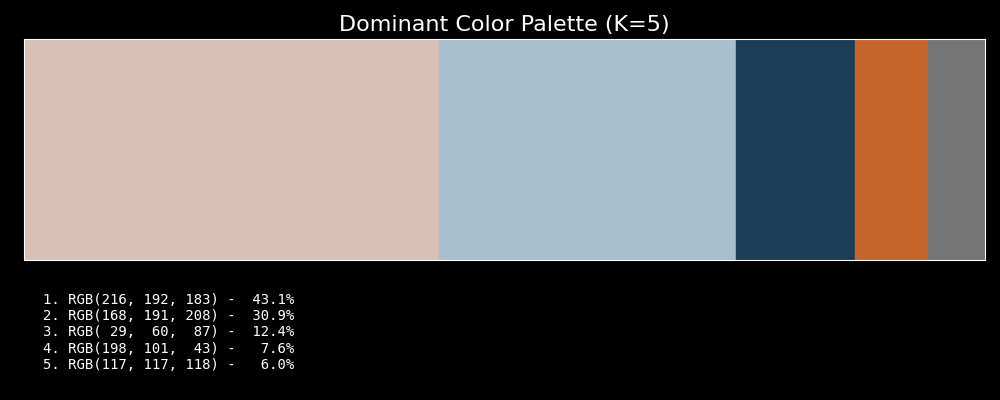
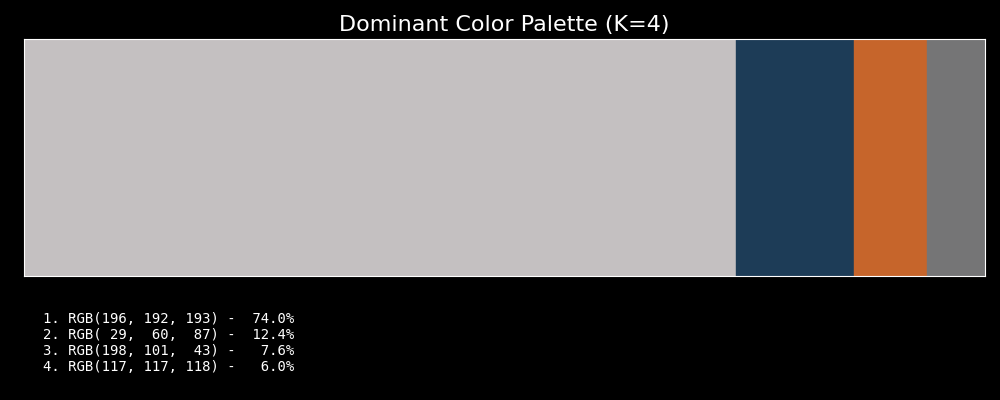
Update README to include Elbow Method info

Changed region(s): [[0.0, 0.03, 0.992, 0.69], [0.031, 0.72, 0.217, 0.93], [0.248, 0.72, 0.31, 0.93]]

diff --git a/README.md b/README.md
@@ -1,6 +1,6 @@
 # 🎨 Pix-Palette: K-Means Dominant Color Extractor
 
-This project demonstrates the core concepts of **Unsupervised Machine Learning**, **Feature Engineering**, and **Data Reduction** by automatically extracting the dominant color palette from any input image, shrinking millions of color values to an interpretable few. The solution uses the **_K-Means Clustering_** algorithm to group millions of individual pixel colors into a specified number of representative colors, which are then displayed in a proportional palette with their RGB values.
+This project demonstrates the core concepts of **Unsupervised Machine Learning**, **Feature Engineering**, and **Data Reduction** by automatically extracting the dominant color palette from any input image, shrinking millions of color values to an interpretable few. The solution uses the **_K-Means Clustering_** algorithm to group millions of individual pixel colors into a specified number of representative colors, which are then displayed in a proportional palette with their RGB values. To ensure the palette is optimal, the project utilizes the Elbow Method to analytically determine the best number of clusters (K) for any given image.
 
 * Unsupervised Learning: The model works entirely on its own, without needing to be "trained" on pre-labeled data. It discovers the patterns (the clusters of color) inherent in the image data.
 
@@ -10,9 +10,25 @@ This project demonstrates the core concepts of **Unsupervised Machine Learning**
 
 ## ✨ Final Showcase
 
-Here is the dominant color palette extracted from a sample input image (using K=5 clusters), with the colors sorted by their frequency (proportion) in the image:
+This section demonstrates the successful Data Reduction from millions of unique colors to an optimized, interpretable palette.
+
+### 🎨 Final Optimized Palette (K=4)
+
+Here is the dominant color palette extracted from a sample input image, with the final K value determined analytically by the Elbow Method. The colors are sorted by their frequency (proportion) in the image:
 
 ![Dominant Color Palette Output](showcase_palette_output.png)
+
+### 📈 Justification: Optimal K Selection
+
+Use the **Elbow Method** to ensure the K value (number of colors) is analytically justified, not arbitrary.
+
+The plot below shows how the **Inertia** (Sum of Squared Distances) decreases as the number of clusters K increases. 
+
+The point where the curve bends (the "elbow") indicates that adding more clusters provides diminishing returns on fitting the data.
+
+In this specific case, the elbow occurs within K=3 to K=5 (depending on the granularity desired), confirming that four colors provides a great balance between model simplicity and data representation.
+
+![Elbow Plot Visualization](showcase_elbow_plot.png)
 
 ## ⚙ Technical Details
 
@@ -48,3 +64,7 @@ Here is the dominant color palette extracted from a sample input image (using K=
     * Open `palette-extractor.ipynb` in VSCode or Jupyter.
     * Update the `IMAGE_PATH` variable to point to your file.
     * Run all cells to see the generated palette!
+
+---
+### 📝 Project Note
+The sample images used for testing the K-Means model stability and source for creating the visuals displayed above were generated by Google's Gemini model.
